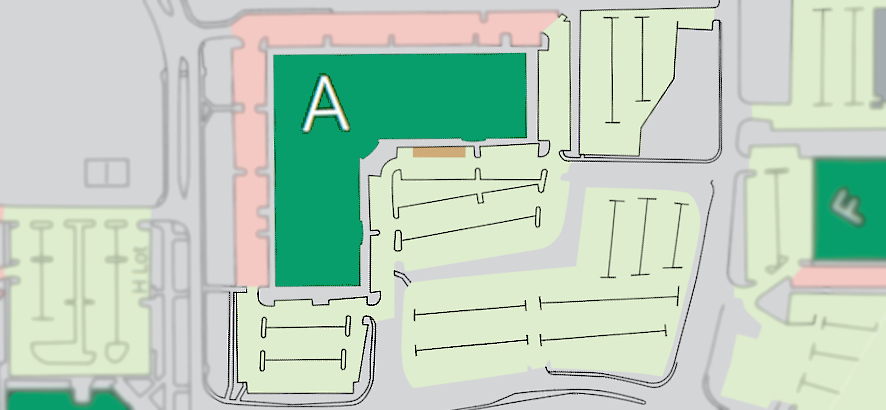
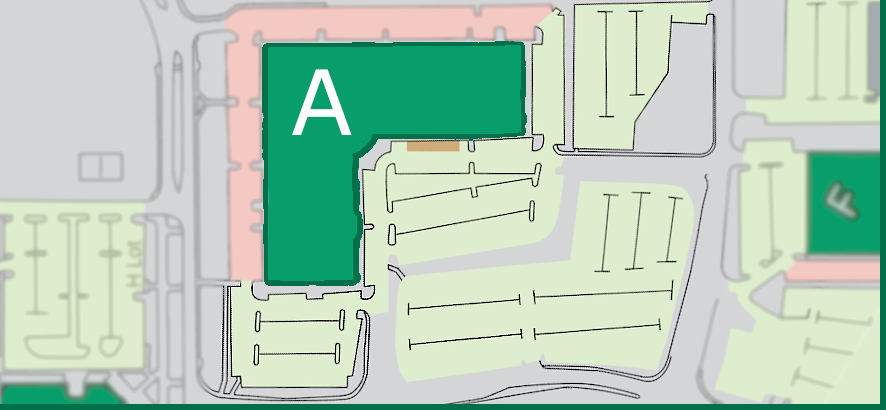
Redid all images to fit and look good in new format, fixed go back button, removed reset password from login

diff --git a/src/authentication/Profile.js b/src/authentication/Profile.js
@@ -57,6 +57,8 @@ export const Profile = observer(
                         <Image source={E} style={styles.backgroundImage} />
                     </View>
 
+                    
+
 
 
                     <View>
@@ -79,9 +81,11 @@ export const Profile = observer(
                         <Button title="Go Back" color="#0A5A45"
                             onPress={() => navigation.goBack()} />
                     </View>
+
                     </View>
-                </ScrollView>
+                    </ScrollView>
             </View>
+           
         );
     })
 
@@ -94,21 +98,26 @@ const styles = StyleSheet.create({
         paddingLeft: 12
     },
     button: {
-        flex: 1
+        alignSelf:'center',
+        height: 100,
+        width: 150,
+        marginTop: 25,
+       
     },  
+
     background: {
         backgroundColor: '#056f4b',
         height: HEIGHT,
         width: WIDTH,
     },
     imageContainer: {
-        height: 170,
+        height: 185,
         shadowColor: 'black',
         shadowOpacity: 0.50,
-        shadowOffset: {
-                     width: 10,
-                     height: 10
-                    }
+        shadowOffset:{
+                      width: 10,
+                      height: 10
+                     }
     },
     backgroundImage: {
         resizeMode: "cover",
@@ -116,7 +125,7 @@ const styles = StyleSheet.create({
         flex: 1,
         width: undefined,
         height: undefined,
-        borderRadius: 24,
+        borderRadius: 15,
     },
 
     logoText: {

diff --git a/src/authentication/Login.js b/src/authentication/Login.js
@@ -126,13 +126,6 @@ export const Login = observer(
                         </TouchableOpacity>
                     </View>
 
-                    <View>
-                        <TouchableOpacity style={styles.buttonForgotPassword}
-                            onPress={() => RootStore.LoginDomain.forgotPassword(navigation)}>
-                            <Text style={styles.forgotPasswordText}>Forgot password?</Text>
-                        </TouchableOpacity>
-                    </View>
-
                 </ImageBackground>
             </View>
         );
@@ -186,7 +179,7 @@ const styles = StyleSheet.create({
         width: WIDTH - 255,
         height: 22,
         borderRadius: 15,
-        margin: 10,
+        margin: 5,
     },
 
     forgotPasswordText: {
